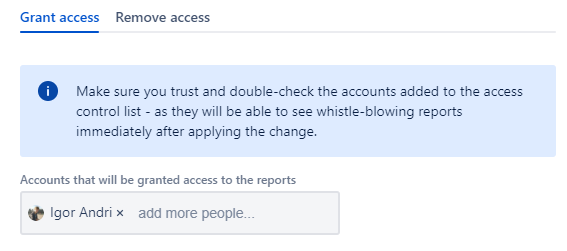
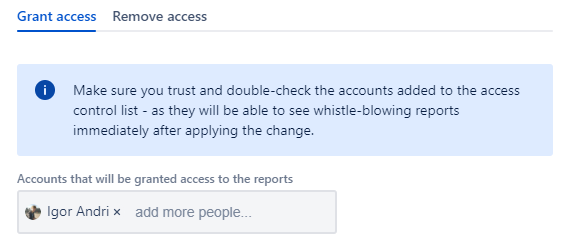
Dimensions!

diff --git a/ww.html b/ww.html
@@ -81,7 +81,7 @@
           <h2 class="display-5">Kick-off Compliance team that reviews and acts on tips</h2>
           <p class="lead">Use Atlassian built-in user management system and identities to assemble your Compliance team and grant them access to reports. They will be able to perform the submission review, update the status and communicate back with the reporters without risk to reveal whistleblower identity. All actions of the team are auditable and exportable.</p>
         </div>
-        <div class="bg-white box-shadow mx-auto" style="width: 567px; height:251px; border-radius: 21px 21px 0 0;">
+        <div class="bg-white box-shadow mx-auto" style="width: 564px; height:250px; border-radius: 21px 21px 0 0;">
           <img class="block" src="img/ww-access.png" width="100%" height="auto" >
         </div>
       </div>
@@ -91,7 +91,7 @@
         <h2 class="display-5">Get compliant with EU directive on whistleblowing protection in less than 5 minutes</h2>
         <p class="lead">From December 17th 2021, organizations larger than 250 people need to provide them a secure channel for submitting whistleblowing tips.<br> Whistle Willow allows your company to satisfy all requirements of the Directive and seamlessly integrate it into existing Atlassian products with just a few clicks.</p>
       </div>
-      <div class="bg-white box-shadow mx-auto" style="width: 780px; height: 295px; border-radius: 21px 21px 0 0;">
+      <div class="bg-white box-shadow mx-auto" style="width: 780px; height: 274px; border-radius: 21px 21px 0 0;">
         <img src="img/ww-history.PNG" width="auto" height="auto" class="block">
       </div>
     </div>
